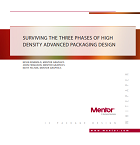
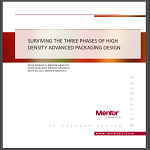
2019 Jan update 5

diff --git a/www/index.html b/www/index.html
@@ -268,9 +268,9 @@
                 -->
                             <div class="divider" style="margin-bottom: 5px;"></div>
 
-                            <a onclick="VSCapture('MENTOR-2019-CONTENT-AD')" href="https://www.mentor.com/products/ic_nanometer_design/resources/overview/surviving-the-three-phases-of-high-density-advanced-packaging-design-62f6adaf-8777-4ccb-9539-465047993032?clp=1&cmpid=12947" target="MENTOR-2019"><img class="pull-right" style="margin: 0 10px -0px 10px" src="assets/images/ads/WP_surviving_three.png" width="" alt=""></a>
+                            <a onclick="VSCapture('MENTOR-2019-CONTENT-AD')" href="https://www.mentor.com/products/ic_nanometer_design/resources/overview/surviving-the-three-phases-of-high-density-advanced-packaging-design-62f6adaf-8777-4ccb-9539-465047993032?clp=1&cmpid=12947" target="MENTOR-2019"><img class="pull-right" style="margin: 5px 10px -0px 10px" src="assets/images/ads/WP_surviving_three.png" width="" alt=""></a>
                             <a onclick="VSCapture('MENTOR-2019-CONTENT-AD')" href="https://www.mentor.com/products/ic_nanometer_design/resources/overview/surviving-the-three-phases-of-high-density-advanced-packaging-design-62f6adaf-8777-4ccb-9539-465047993032?clp=1&cmpid=12947" target="MENTOR-2019">
-                            <strong><span style="color: black; text-decoration:underline;">White Paper: Surviving the Three Phases of High Density Advanced Packaging Design</span></strong> </a><br>
+                            <strong><span style="color: black;">White Paper: Surviving the Three Phases of High Density Advanced Packaging Design</span></strong> </a><br>
                             The growth of High Density Advanced Packages (HDAP) such as FOWLP, CoWoS, and WoW is triggering a convergence of the traditional IC design and IC package-design worlds. To handle these various substrate scenarios, process transformation must occur. This paper discusses the three phases of HDAP design and provides tips on how to survive their challenges.
                             <br><strong><span style="color:black">Mentor, a Siemens Business</span></strong>
 
